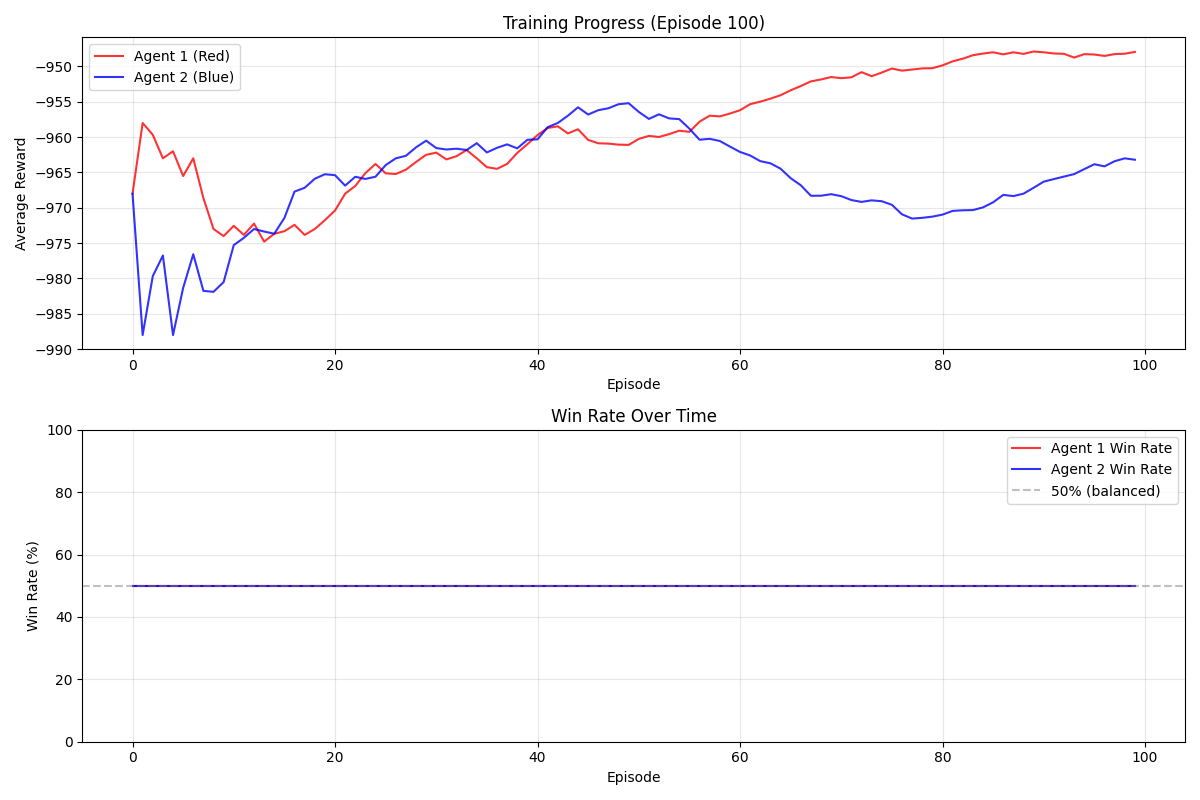
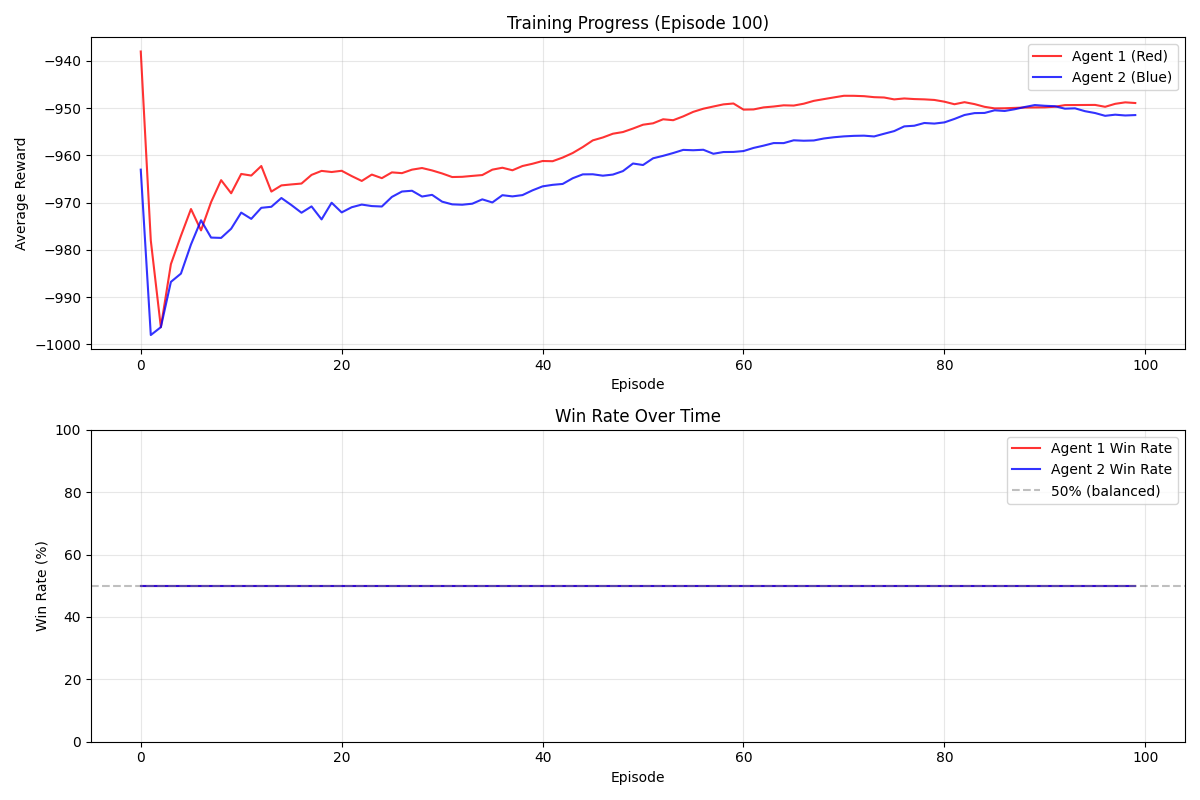
Adjusting code logique

diff --git a/Function/core/game_env.py b/Function/core/game_env.py
@@ -31,7 +31,7 @@ class Combat1DEnv(gym.Env):
         }
         
         # Action and observation spaces
-        self.action_space = spaces.Discrete(4)
+        self.action_space = spaces.Discrete(len(self.actions_config))
         
         # Observation: [distance, direction, my_hp, my_mana, opp_hp, opp_mana]
         self.observation_space = spaces.Box(
@@ -111,13 +111,14 @@ class Combat1DEnv(gym.Env):
         direction = self._get_direction(my_pos, opp_pos)
         
         return np.array([
-            distance,
+            distance / self.strip_length,
             direction,
-            my_hp,
-            my_mana,
-            opp_hp,
-            opp_mana
+            my_hp / self.max_hp,
+            my_mana / self.max_mana,
+            opp_hp / self.max_hp,
+            opp_mana / self.max_mana
         ], dtype=np.float32)
+        
     
     def _execute_action(self, player, action):
         """Execute action for a player and return reward"""
@@ -178,6 +179,8 @@ class Combat1DEnv(gym.Env):
         action_p1, action_p2 = actions
         
         # Execute actions
+        prev_p1_hp, prev_p2_hp = self.p1_hp, self.p2_hp
+
         reward_p1 = self._execute_action(1, action_p1)
         reward_p2 = self._execute_action(2, action_p2)
         
@@ -186,10 +189,12 @@ class Combat1DEnv(gym.Env):
         self.p2_mana = min(self.max_mana, self.p2_mana + self.mana_regen)
         
         # Check damage rewards
-        if self.p2_hp < self.max_hp:
-            reward_p1 += (self.max_hp - self.p2_hp) * 0.1
-        if self.p1_hp < self.max_hp:
-            reward_p2 += (self.max_hp - self.p1_hp) * 0.1
+        damage_done_p1 = prev_p2_hp - self.p2_hp
+        damage_done_p2 = prev_p1_hp - self.p1_hp
+
+        reward_p1 += damage_done_p1 * 1.0  # proportionnel au dégât infligé
+        reward_p2 += damage_done_p2 * 1.0
+
         
         self.current_step += 1
         
@@ -217,7 +222,7 @@ class Combat1DEnv(gym.Env):
         obs_p1 = self._get_observation(player=1)
         obs_p2 = self._get_observation(player=2)
         
-        truncated = False
+        truncated = self.current_step >= self.max_steps
         info = self._get_info()
         
         return (obs_p1, obs_p2), (reward_p1, reward_p2), terminated, truncated, info
